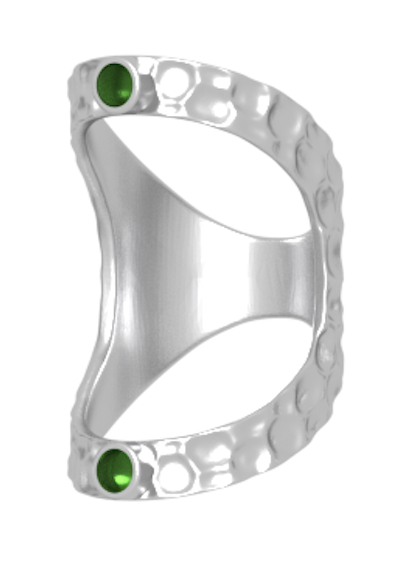
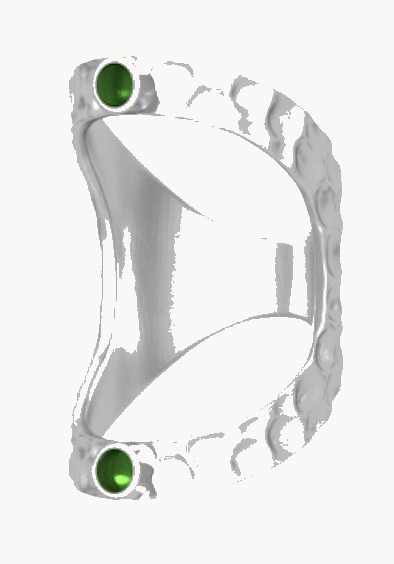
Old chrysolite: blend catalog photo background with cream page.

diff --git a/scripts/fix-catalog-bg.js b/scripts/fix-catalog-bg.js
@@ -1,0 +1,225 @@
+#!/usr/bin/env node
+/**
+ * Replace catalog PNG backgrounds (white/grey/black) with #f9f8f6 via flood-fill from edges.
+ */
+const fs = require("fs");
+const zlib = require("zlib");
+
+const TARGET = [249, 248, 246];
+const BPP = 4;
+
+function paeth(a, b, c) {
+  const p = a + b - c;
+  const pa = Math.abs(p - a);
+  const pb = Math.abs(p - b);
+  const pc = Math.abs(p - c);
+  if (pa <= pb && pa <= pc) return a;
+  if (pb <= pc) return b;
+  return c;
+}
+
+function decodePng(buffer) {
+  let pos = 8;
+  let width = 0;
+  let height = 0;
+  let colorType = 0;
+  const idat = [];
+
+  while (pos < buffer.length) {
+    const len = buffer.readUInt32BE(pos);
+    const type = buffer.toString("ascii", pos + 4, pos + 8);
+    const start = pos + 8;
+
+    if (type === "IHDR") {
+      width = buffer.readUInt32BE(start);
+      height = buffer.readUInt32BE(start + 4);
+      colorType = buffer[start + 9];
+    } else if (type === "IDAT") {
+      idat.push(buffer.slice(start, start + len));
+    } else if (type === "IEND") {
+      break;
+    }
+
+    pos += 12 + len;
+  }
+
+  if (colorType !== 6) {
+    throw new Error("Only RGBA PNG supported, got color type " + colorType);
+  }
+
+  const raw = zlib.inflateSync(Buffer.concat(idat));
+  const stride = width * BPP;
+  const out = Buffer.alloc(height * stride);
+  let rawPos = 0;
+
+  for (let y = 0; y < height; y++) {
+    const filter = raw[rawPos++];
+    for (let x = 0; x < width; x++) {
+      const i = y * stride + x * BPP;
+      const prev = x > 0 ? i - BPP : -1;
+      const up = y > 0 ? i - stride : -1;
+      const upLeft = x > 0 && y > 0 ? i - stride - BPP : -1;
+
+      for (let c = 0; c < BPP; c++) {
+        const v = raw[rawPos++];
+        let val = v;
+        const left = prev >= 0 ? out[prev + c] : 0;
+        const above = up >= 0 ? out[up + c] : 0;
+        const diag = upLeft >= 0 ? out[upLeft + c] : 0;
+
+        if (filter === 1) val = (v + left) & 255;
+        else if (filter === 2) val = (v + above) & 255;
+        else if (filter === 3) val = (v + ((left + above) >> 1)) & 255;
+        else if (filter === 4) val = (v + paeth(left, above, diag)) & 255;
+
+        out[i + c] = val;
+      }
+    }
+  }
+
+  return { width, height, data: out };
+}
+
+function crc32(buf) {
+  let c = ~0;
+  for (let i = 0; i < buf.length; i++) {
+    c ^= buf[i];
+    for (let k = 0; k < 8; k++) c = c & 1 ? (c >>> 1) ^ 0xedb88320 : c >>> 1;
+  }
+  return ~c >>> 0;
+}
+
+function chunk(type, data) {
+  const len = Buffer.alloc(4);
+  len.writeUInt32BE(data.length, 0);
+  const body = Buffer.concat([Buffer.from(type), data]);
+  const crc = Buffer.alloc(4);
+  crc.writeUInt32BE(crc32(body), 0);
+  return Buffer.concat([len, body, crc]);
+}
+
+function encodePng(width, height, data) {
+  const raw = Buffer.alloc(height * (1 + width * BPP));
+  let rawPos = 0;
+  for (let y = 0; y < height; y++) {
+    raw[rawPos++] = 0;
+    const row = y * width * BPP;
+    data.copy(raw, rawPos, row, row + width * BPP);
+    rawPos += width * BPP;
+  }
+
+  const ihdr = Buffer.alloc(13);
+  ihdr.writeUInt32BE(width, 0);
+  ihdr.writeUInt32BE(height, 4);
+  ihdr[8] = 8;
+  ihdr[9] = 6;
+  ihdr[10] = 0;
+  ihdr[11] = 0;
+  ihdr[12] = 0;
+
+  return Buffer.concat([
+    Buffer.from([137, 80, 78, 71, 13, 10, 26, 10]),
+    chunk("IHDR", ihdr),
+    chunk("IDAT", zlib.deflateSync(raw, { level: 9 })),
+    chunk("IEND", Buffer.alloc(0)),
+  ]);
+}
+
+function dist(a, b) {
+  return Math.sqrt((a[0] - b[0]) ** 2 + (a[1] - b[1]) ** 2 + (a[2] - b[2]) ** 2);
+}
+
+function sampleCorners(data, width, height) {
+  const pts = [
+    [0, 0],
+    [width - 1, 0],
+    [0, height - 1],
+    [width - 1, height - 1],
+    [Math.floor(width / 2), 0],
+    [Math.floor(width / 2), height - 1],
+    [0, Math.floor(height / 2)],
+    [width - 1, Math.floor(height / 2)],
+  ];
+  return pts.map(([x, y]) => {
+    const i = (y * width + x) * BPP;
+    return [data[i], data[i + 1], data[i + 2]];
+  });
+}
+
+function spread(rgb) {
+  return Math.max(rgb[0], rgb[1], rgb[2]) - Math.min(rgb[0], rgb[1], rgb[2]);
+}
+
+function luminance(rgb) {
+  return 0.299 * rgb[0] + 0.587 * rgb[1] + 0.114 * rgb[2];
+}
+
+function isBackgroundPixel(rgb, cornerAvg) {
+  const lum = luminance(rgb);
+  const s = spread(rgb);
+
+  if (dist(rgb, cornerAvg) <= 52) return true;
+  if (lum <= 40 && s < 28) return true;
+  if (lum >= 188 && s < 34) return true;
+  return false;
+}
+
+function floodReplaceBg(data, width, height) {
+  const corners = sampleCorners(data, width, height);
+  const cornerAvg = corners.reduce(
+    (acc, c) => [acc[0] + c[0], acc[1] + c[1], acc[2] + c[2]],
+    [0, 0, 0]
+  ).map((v) => Math.round(v / corners.length));
+
+  const visited = new Uint8Array(width * height);
+  const queue = [];
+
+  function tryPush(x, y) {
+    if (x < 0 || y < 0 || x >= width || y >= height) return;
+    const idx = y * width + x;
+    if (visited[idx]) return;
+    const i = idx * BPP;
+    const rgb = [data[i], data[i + 1], data[i + 2]];
+    if (!isBackgroundPixel(rgb, cornerAvg)) return;
+    visited[idx] = 1;
+    queue.push(idx);
+  }
+
+  for (let x = 0; x < width; x++) {
+    tryPush(x, 0);
+    tryPush(x, height - 1);
+  }
+  for (let y = 0; y < height; y++) {
+    tryPush(0, y);
+    tryPush(width - 1, y);
+  }
+
+  let head = 0;
+  while (head < queue.length) {
+    const idx = queue[head++];
+    const x = idx % width;
+    const y = (idx / width) | 0;
+    const i = idx * BPP;
+    data[i] = TARGET[0];
+    data[i + 1] = TARGET[1];
+    data[i + 2] = TARGET[2];
+    data[i + 3] = 255;
+
+    tryPush(x - 1, y);
+    tryPush(x + 1, y);
+    tryPush(x, y - 1);
+    tryPush(x, y + 1);
+  }
+}
+
+const file = process.argv[2];
+if (!file) {
+  console.error("Usage: node scripts/fix-catalog-bg.js <png-path>");
+  process.exit(1);
+}
+
+const buf = fs.readFileSync(file);
+const { width, height, data } = decodePng(buf);
+floodReplaceBg(data, width, height);
+fs.writeFileSync(file, encodePng(width, height, data));
+console.log("Updated", file);